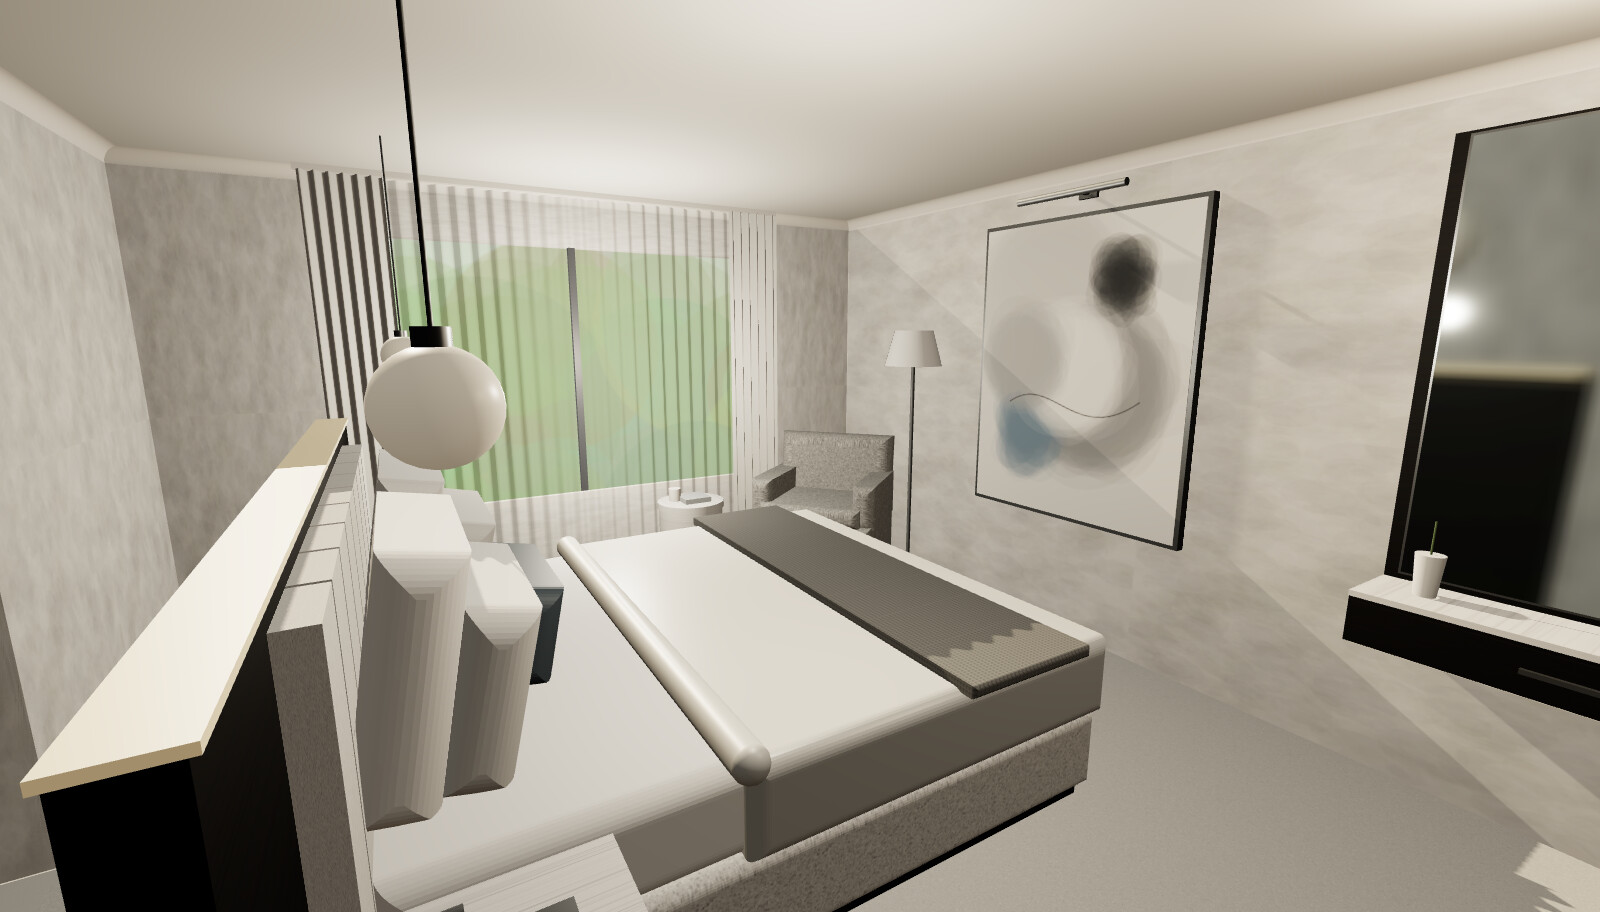
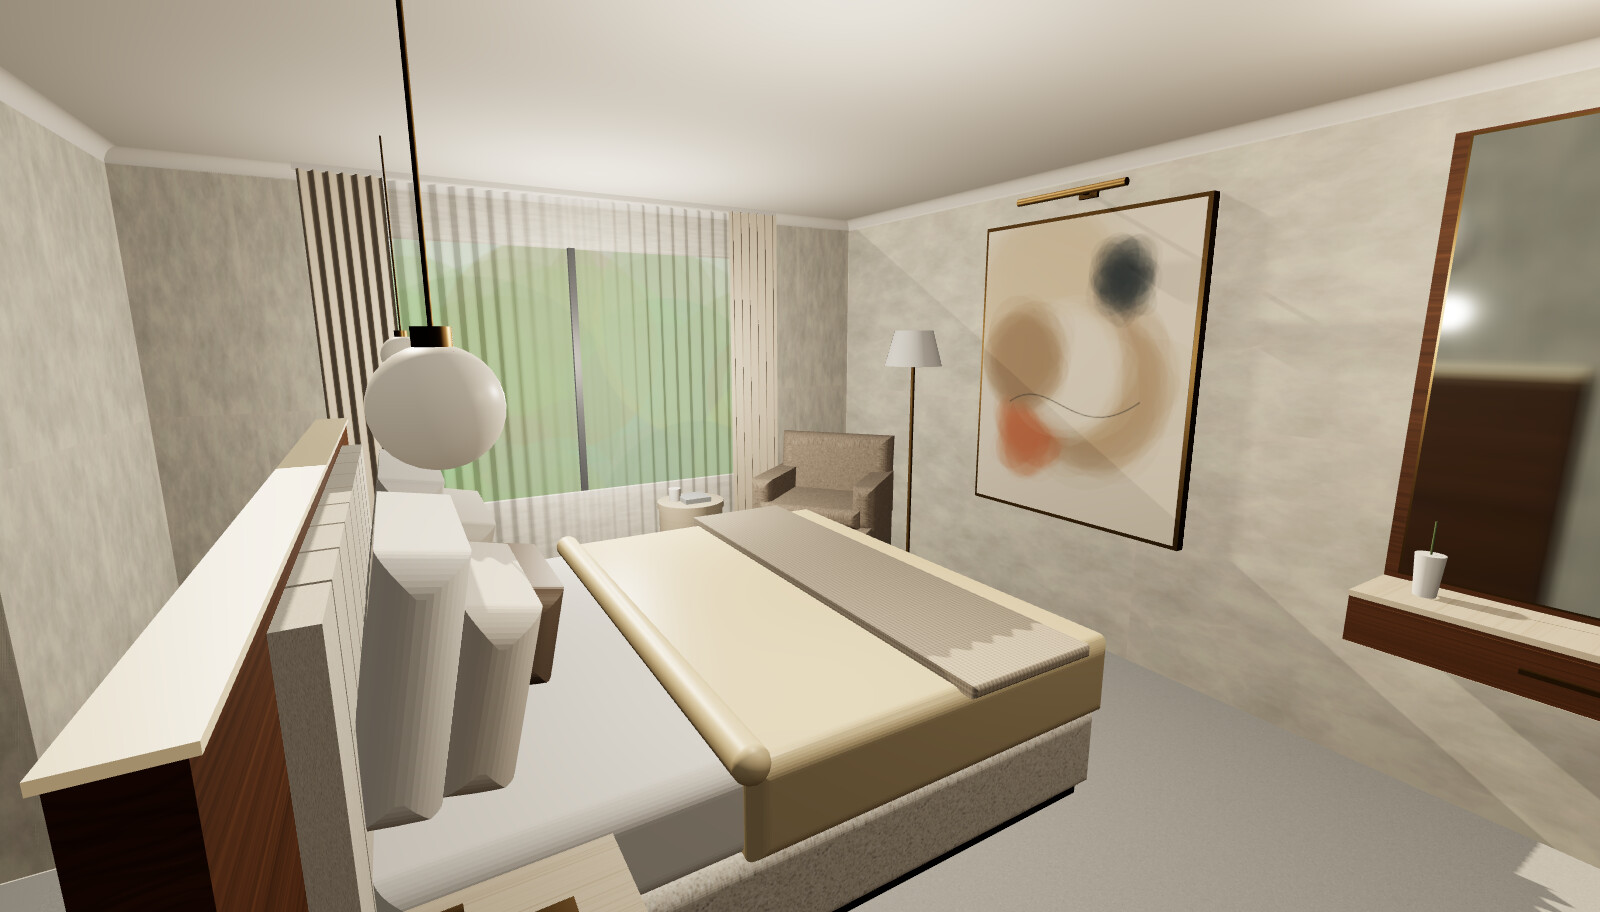
Restore original warm palette (greige, ivory, walnut, travertine, brass) with grey carpet
Claude-Session: https://claude.ai/code/session_01P4LkCESWoGV8P5QgBbWSmy

diff --git a/renders/bedroom-1-3d.html b/renders/bedroom-1-3d.html
@@ -50,7 +50,7 @@ const PALS={
   clay:  {wall:'#ece6df',ceil:'#f7f5f1',timber:'#3a3634',stone:'#e9e3da',vein:'160,140,120',boucle:'#e8e0d5',chair:'#b86e4e',sheet:'#fbf9f6',duvet:'#efe7dc',accent:'#b86e4e',throw:'#c98b6b',metal:'#2b2b2b',linen:'#dccfc0',pillowA:'#f8f5f0',pillowB:'#e3cbb8',
           art:['#efe9e1','#e3cbb8','#c98b6b','#b86e4e','#2b2b2b','#f6f2ec','#a89f96']}
 };
-const PAL=PALS[P.get('pal')||'grey']||PALS.grey;
+const PAL=PALS[P.get('pal')||'warm']||PALS.warm;
 function hexRGB(h){ const n=parseInt(h.slice(1),16); return [(n>>16)&255,(n>>8)&255,n&255]; }
 function speckle(base,w,h,n,rad,lightA,darkA,seed){ return (g)=>{ g.fillStyle=base; g.fillRect(0,0,w,h); const r=rnd(seed); const [R,G,B]=hexRGB(base);
   for(let i=0;i<n;i++){ const v=r()<0.5; g.fillStyle=v?`rgba(${Math.min(255,R+35)},${Math.min(255,G+35)},${Math.min(255,B+35)},${lightA})`:`rgba(${R*0.7|0},${G*0.7|0},${B*0.7|0},${darkA})`; g.beginPath(); g.arc(r()*w,r()*h,rad[0]+r()*rad[1],0,7); g.fill(); } }; }
